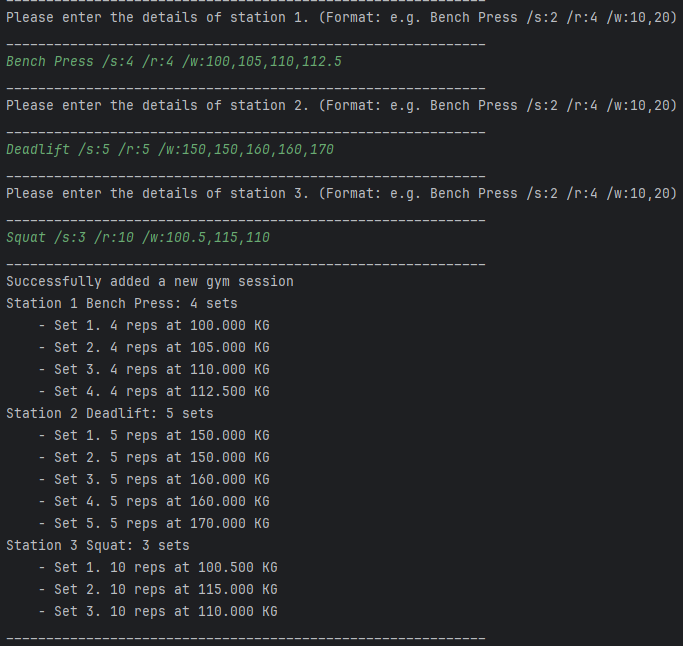
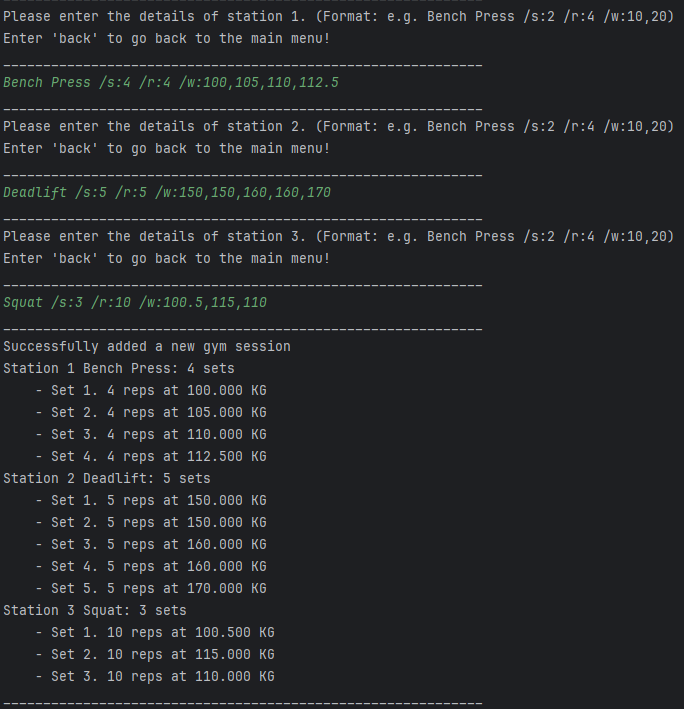
add delete, history, latest. exit and storage, error message for gym and replace gym images

Changed region(s): [[0.0, 0.0, 1.0, 1.0]]

diff --git a/CS2101/UserGuide_2101.md b/CS2101/UserGuide_2101.md
@@ -18,7 +18,7 @@ Once again, we hope our application helps you, and thank you for choosing PulseP
 
 ## Contact Us
 
-If you have any queries with the guide, our application, or even life in general,  please feel free to reach out to our project director **Justin Soh** at [+65 91234567](https://www.youtube.com/watch?v=eBGIQ7ZuuiU)!
+If you have any queries with the guide, our application, or even **life in general**, please feel free to reach out to our project director **Justin Soh** at [+65 91234567](https://www.youtube.com/watch?v=eBGIQ7ZuuiU)!
 
 ---
 
@@ -512,8 +512,8 @@ Now that Java and PulsePilot is up and running on your computer, it is time to l
 * [View History](#view-history)
 * [View Latest](#view-latest)
 * [Delete Item](#delete-item)
-* [Storage of Data](#storage-of-data)
 * [Exit](#exit)
+* [Storage of Data](#storage-of-data)
 
 ### PulsePilot Text Style
 
@@ -627,39 +627,29 @@ The following example will cover how to add a run step-by-step.
 
 3. Putting it together, the full command is:
 
-   <code style="color: #D85D43;">workout /e:run /d:5.50 /t:25:12 /date:07-03-2024</code>
-  
-4. Entering it into PulsePilot results in this output:
+   <code style="color: green">workout /e:run /d:5.50 /t:25:12 /date:07-03-2024</code>
 
     ![Add first run](img_2101/pulsepilot_commands/run/add_run1.png)
 
-5. Now, let's put the **second** run's details into the flags required:
+4. Now, let's put the **second** run's details into the flags required:
 
     - A **20km** run is specified using the `distance` flag via `/d:20.00`.
     - **2 hours, 13 minutes and 37 seconds** is specified using the `time` flag via `/t:02:13:37`
     - **No date** is given, so we can leave the `date` blank.
 
-6. The full command for the second run is:
+5. The full command for the second run is:
 
-    <code style="color: #D85D43;">workout /e:run /d:20.00 /t:02:13:37</code>
-
-7. Entering it into PulsePilot shows the following:
+    <code style="color: green">workout /e:run /d:20.00 /t:02:13:37</code>
 
     ![Add second run](img_2101/pulsepilot_commands/run/add_run2.png)
-
-8. Congratulations! You have added your first 2 runs to PulsePilot!
 
 ##### Error Messages
 
 > ❗ This is just one example of invalid input. We will not cover the full list of errors here.
 
-Adding an incorrect flag will cause the command for adding a run to be **invalid** and PulsePilot will not add anything. 
-
-For example, if you used `/time:` instead of `/t:`
+**Using the wrong flag**:
 
 ![Error in Flag](img_2101/pulsepilot_commands/run/run_error.png)
-
-
 
 ###### [Back to PulsePilot Commands](#pulsepilot-commands)
 
@@ -674,7 +664,7 @@ To add a gym, there are 2 parts to the command:
 1. Adding a gym itself using `workout /e:gym`.
 2. Adding details for each individual gym station.
 
-To tell PulsePilot to add a gym, the following details are required:
+To add a gym, the following details and flags must be specified in your input:
 
 | Detail               | Description                                                       | Flag Used | Limitations                                                                                                                                                                  |
 |----------------------|-------------------------------------------------------------------|-----------|------------------------------------------------------------------------------------------------------------------------------------------------------------------------------|
@@ -683,10 +673,7 @@ To tell PulsePilot to add a gym, the following details are required:
 
 > ❗ The `date` parameter is **OPTIONAL**. Not specifying one results in it being recorded as `NA` within PulsePilot, and it is okay! This is similar to the command used for adding a run.
 
-> ❗ After using the `workout /e:gym` command, **ALL OTHER INPUTS WILL BE INVALID** as PulsePilot expects gym station parameters.
-
-After PulsePilot receives the command to enter a gym, it will prompt you further for additional details for **each station**. If you specified the `number of stations` as `4`, then PulsePilot requires 4 extra inputs from you!
-
+After PulsePilot receives the command to enter a gym, it will prompt you further for additional details for **each station**. If you specified the `number of stations` as `3`, then PulsePilot requires 3 extra lines of input from you!
 
 The following details are required for each station:
 
@@ -710,25 +697,36 @@ The following example will cover how to add a gym session step-by-step.
     - **3 gym stations** is specified using the `number of stations` flag via `/n:3`.
     - **10 March 2024** is specified using the `date` flag via `/date:10-03-2024`.
 
-3. Putting it together, the full command is:
+3. Putting it together, the full command to use is:
 
-    <code style="color: #D85D43;">workout /e:gym /n:3 /date:10-03-2024</code>
-
-4. Entering it into PulsePilot results in the gym station prompt to be printed:
+    <code style="color: green">workout /e:gym /n:3 /date:10-03-2024</code>
 
     ![Workout Gym Command](img_2101/pulsepilot_commands/gym/initial_workout.png)
 
-5. Now, we can put the 3 gym stations into the flags required:
+4. Now, we can put the 3 gym stations into the flags required and enter them as input:
 
-    - Station 1: <code style="color: #D85D43;">Bench Press /s:4 /r:4 /w:100,105,110,112.5</code>
-    - Station 2: <code style="color: #D85D43;">Deadlift /s:5 /r:5 /w:150,150,160,160,170</code>
-    - Station 3: <code style="color: #D85D43;">Squat /s:3 /r:10 /w:100.5,115,110</code>
-
-6. Enter the inputs into PulsePilot. New prompts are printed for each station, and a success message is printed once added. If done correctly, the output should look like this:
+    - Station 1: <code style="color: green">Bench Press /s:4 /r:4 /w:100,105,110,112.5</code>
+    - Station 2: <code style="color: green">Deadlift /s:5 /r:5 /w:150,150,160,160,170</code>
+    - Station 3: <code style="color: green">Squat /s:3 /r:10 /w:100.5,115,110</code>
 
     ![Add Gym Stations](img_2101/pulsepilot_commands/gym/add_gym_stations.png)
 
-7. Congratulations! You have successfully added a gym session to PulsePilot!
+
+> ❗ Using `back` will delete the gym session, and bring you back to the main menu to use other commands.
+> 
+> ![Going Back](img_2101/pulsepilot_commands/gym/station_back.png)
+
+##### Error Messages
+
+> ❗ This is just one example of invalid input. We will not cover the full list of errors here.
+
+**An invalid station name was entered**:
+
+![Invalid Name](img_2101/pulsepilot_commands/gym/invalid_name.png)
+
+**Number of sets do not match number of weights**:
+
+![Invalid weight](img_2101/pulsepilot_commands/gym/setrep_nomatch.png)
 
 ###### [Back to PulsePilot Commands](#pulsepilot-commands)
 
@@ -778,6 +776,47 @@ The following example will cover how to add a gym session step-by-step.
 
 ### View History
 
+Once items have been added, the `history` command can be used to view all of the items added.
+
+To do so, the following details flags are required in your input:
+
+| Detail               | Description                                                       | Flag Used | Limitations                                                                                                                                                                  |
+|----------------------|-------------------------------------------------------------------|-----------|------------------------------------------------------------------------------------------------------------------------------------------------------------------------------|
+| `history item` | The name of the item you want to view the history for.   | `/item:`    | Can **only** be set to either `workouts`, `gym`, `run`, `period`, `bmi` or `appointment`.                                                                                                                                  |
+
+
+The `history item` detail will print out the different histories of objects you have added. If specified to `workouts`, it prints **all runs and gyms** recorded.
+
+The following example shows how to view the history step-by-step:
+
+1. Suppose you have added **a run, gym and BMI entry**, and want to view all of them.
+
+2. You can choose to view the `run` history using the command:
+
+    <code style="color: green">history /item:run</code>
+
+    ![View Run History](img_2101/pulsepilot_commands/history/view_run.png)
+
+3. BMI history can be viewed using:
+
+    <code style="color: green">history /item:bmi</code>
+
+    ![View BMI History](img_2101/pulsepilot_commands/history/view_bmi.png)
+
+4. All of the workouts can be viewed using:
+
+    <code style="color: green">history /item:workouts</code>
+
+    ![View Workouts](img_2101/pulsepilot_commands/history/view_workouts.png)
+
+#### Error Messages
+
+> ❗ This is just one example of invalid input. We will not cover the full list of errors here.
+
+**Using the wrong history item**:
+
+![Wrong Filter](img_2101/pulsepilot_commands/history/wrong_filter.png)
+
 ###### [Back to PulsePilot Commands](#pulsepilot-commands)
 
 ###### [Back to table of contents](#table-of-contents)
@@ -786,6 +825,26 @@ The following example will cover how to add a gym session step-by-step.
 
 ### View Latest
 
+For viewing either the **last entry** for items using `latest`.
+
+To do so, the following details and flags must be specified in your input:
+
+| Detail               | Description                                                       | Flag Used | Limitations                                                                                                                                                                  |
+|----------------------|-------------------------------------------------------------------|-----------|------------------------------------------------------------------------------------------------------------------------------------------------------------------------------|
+| `latest item` | The name of the item you want to view the history for.   | `/item:`    | Can **only** be set to either `gym`, `run`, `period`, `bmi` or `appointment`.                                                                                                                                  |
+
+The following example will cover how to use the `latest` command step-by-step:
+
+1. Suppose you have 2 appointments added, one on **20-05-2024** and the other on **20-06-2024**. This is viewable using the `history` command:
+
+    ![View Appt](img_2101/pulsepilot_commands/history/appt.png)
+  
+2. The `latest` command would print the **last appointment** added:
+
+    <code style="color: green">latest /item:appointment</code>
+
+    ![Latest appt](img_2101/pulsepilot_commands/latest/latest_appt.png)
+  
 ###### [Back to PulsePilot Commands](#pulsepilot-commands)
 
 ###### [Back to table of contents](#table-of-contents)
@@ -793,6 +852,50 @@ The following example will cover how to add a gym session step-by-step.
 ---
 
 ### Delete Item
+
+For removing things PulsePilot has recorded using `delete`. 
+
+To do so, the following details and flags must be specified in your input:
+
+| Detail               | Description                                                       | Flag Used | Limitations                                                                                                                                                                  |
+|----------------------|-------------------------------------------------------------------|-----------|------------------------------------------------------------------------------------------------------------------------------------------------------------------------------|
+| `delete item` | The name of the item you want to view the history for.   | `/item:`    | Can **only** be set to either `gym`, `run`, `period`, `bmi` or `appointment`.                                                                                                                                  |
+| `delete index` | The index of the item you want to delete.   | `/item:`    | Must be a **number of at least 1**.                                                                                                                                |
+
+The following example shows how the `delete` command can be used:
+
+1. Suppose you have **2 runs** added. This can be viewed using the `history` command:
+
+    ![2 runs](img_2101/pulsepilot_commands/delete/2runsadded.png)
+
+2. The runs have an `Index` column on the left, which is the number required for the `delete index` detail. The first run can be deleted using `delete`, then `history` is used to check whether it has been deleted:
+
+    <code style="color: green">delete /item:run /index:1</code>
+    
+    ![Deleted Run](img_2101/pulsepilot_commands/delete/delete_run.png)
+  
+
+#### Error Messages
+
+> ❗ This is just one example of invalid input. We will not cover the full list of errors here.
+
+**Deleting an item that does not exist**:
+
+![Deleting Error](img_2101/pulsepilot_commands/delete/delete_error.png)
+
+###### [Back to PulsePilot Commands](#pulsepilot-commands)
+
+###### [Back to table of contents](#table-of-contents)
+
+---
+
+### Exit
+
+For exiting the bot **and writing data** via `exit`.
+
+> ❗ Exiting the bot without using `exit` will **result in data not being saved!**
+
+![Exit](img_2101/pulsepilot_commands/exit/exitbot.png)
 
 ###### [Back to PulsePilot Commands](#pulsepilot-commands)
 
@@ -802,13 +905,17 @@ The following example will cover how to add a gym session step-by-step.
 
 ### Storage of Data
 
-###### [Back to PulsePilot Commands](#pulsepilot-commands)
+PulsePilot creates a 2 files for storing your data, and making sure that the data has **not been tampered with**. These files contain your name, all health and all workout information you stored. 
 
-###### [Back to table of contents](#table-of-contents)
+Upon starting up again, PulsePilot will read the data file and restore all your data!
 
----
+Users should **not** tamper with these files in any way.
 
-### Exit
+> ❗ **Tampering with data files can result in permanent data loss!!**
+
+When a data file is read properly, PulsePilot will start accepting commands immediately:
+
+![Read Data File](img_2101/pulsepilot_commands/save_state.png)
 
 ###### [Back to PulsePilot Commands](#pulsepilot-commands)
 
@@ -831,7 +938,7 @@ Here is a summary of all the commands and its functions. The table contains exam
 | View history      | `history /item:TYPE` <br> Example: `history /item:run` </br>                                                                                                              |
 | View latest       | `latest /item:TYPE` <br> Example: `latest /item:bmi` </br>                                                                                                                |
 | Deleting item     | `delete /item:TYPE /index:INDEX` <br> Example: `delete /item:run /index:1`  </br>                                                                                         |
-| Exit bot          | `exit`                                                                                                                                                                    |
+| Exit and write data          | `exit`                                                                                                                                                                    |
 
 ###### [Back to table of contents](#table-of-contents)
 
@@ -882,13 +989,13 @@ You may experience 2 scenarios:
 
 - A data file content corruption:
 
-![Data Corruption](img/output/data_corruption.png)
+![Data Corruption](../img/output/data_corruption.png)
 
 Corruption of the `pulsepilot_data.txt` or `pulsepilot_hash.txt` files will result in **permanent and complete data loss**.
 
 - A missing file error:
 
-![Missing Files](img/output/missing_files.png)
+![Missing Files](../img/output/missing_files.png)
 
 A missing file error occurs when either `pulsepilot_data.txt` or `pulsepilot_hash.txt` is missing when PulsePilot is run. For safety and security reasons, PulsePilot will automatically delete any remaining data files before exiting the application.
 
@@ -903,18 +1010,18 @@ Otherwise, if you have lost your data, you can reinitialize a new save file by r
 Yes, your data is secure and stored locally on your machine. PulsePilot does not have any features that would allow it to send your data elsewhere.
 
 **4.** What happens if I specify extra flags on accident?
-
+   
 Note that if you add duplicate or extra flags, the bot **will read the first instance only**.
 
 **All other parameters will be ignored.**
 
-For example:
+For example, if you entered:
 
 ```
 workout /e:run /d:5.25 /t:59:50 /d:10.55
 ```
 
-In the above output, the bot will read `5.25` as the distance. The second `/d:10.55` is ignored.
+In the above output, the bot will read `5.25` as the distance. The second `/d:10.55` is **ignored**.
 
 **5.** What if I keep receiving an error message even though my input seems to follow the instructions given in the user guide?
 
@@ -922,16 +1029,16 @@ Please ensure that you follow the command syntax given **exactly** in the user g
 
 Example of the correct command:
 
-![correct_command.png](img/correct_command.png)
+![correct_command.png](../img/correct_command.png)
 
 - Error of adding extra space(s) in fixed parameters:
     - In this case, the altered fixed parameter is `/date:`, which was written as `/ date:` instead.
 
-![extra_space_error_command.png](img/extra_space_error_command.png)
+![extra_space_error_command.png](../img/extra_space_error_command.png)
 
 - Error of adding extra newline(s) after command:
 
-![extra_newline_error_command.png](img/extra_newline_error_command.png)
+![extra_newline_error_command.png](../img/extra_newline_error_command.png)
 
 Avoid using extra characters in the commands, such as blank space, newline, etc.
 
